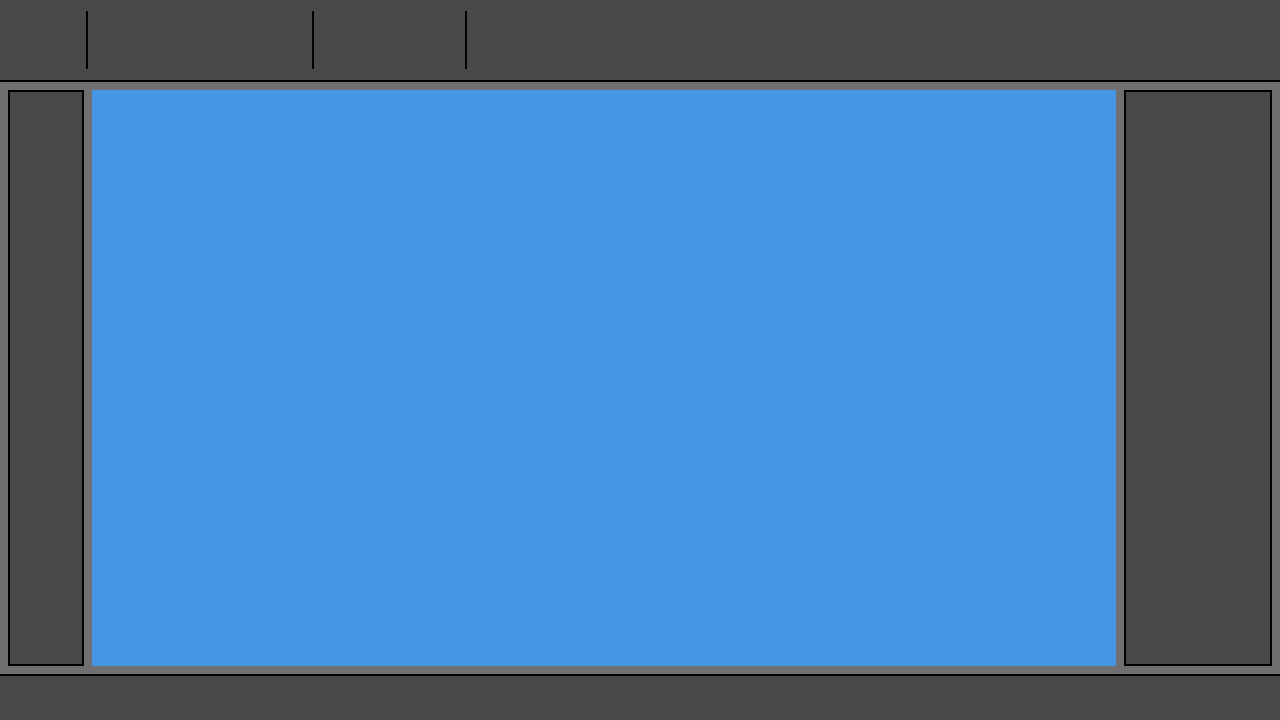
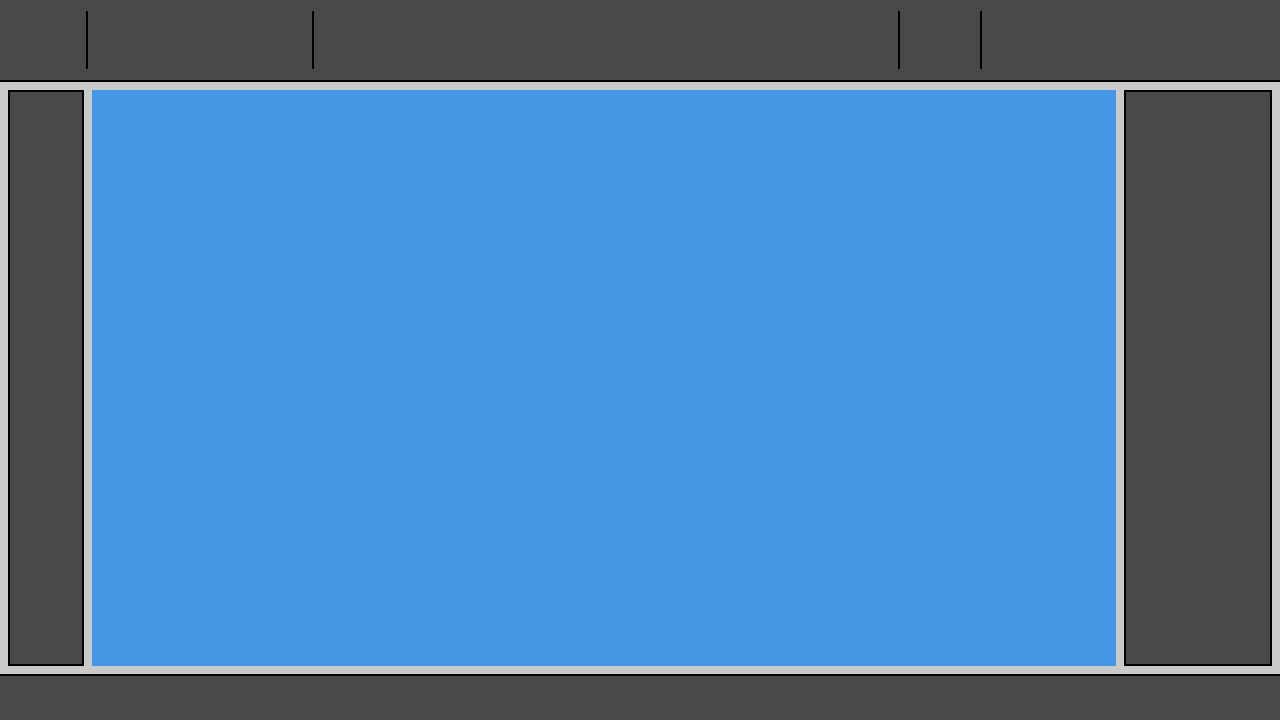
Improvement of Editor interface

Changed region(s): [[0.0, 0.0917, 1.0, 0.9472]]

diff --git a/src/Game/GameStates/MapEditorState.cpp b/src/Game/GameStates/MapEditorState.cpp
@@ -83,7 +83,7 @@ MapEditorState::MapEditorState(StateStack &stack, Context context)
 
     auto teamColor = std::make_shared<GUI::CheckBox>(context, 60, 60, Textures::EditorTeamColor);
     teamColor->setToggle(true);
-    teamColor->setPosition(490, 10);
+    teamColor->setPosition(992, 10);
     teamColor->activate();
     teamColor->setCallback([this] (bool red) {
         if(red)
@@ -96,40 +96,13 @@ MapEditorState::MapEditorState(StateStack &stack, Context context)
     teamColor->activate();
     mTeamSelection.pack(teamColor);
 
-    auto knight = std::make_shared<GUI::Button>(context, 60, 60, Textures::EditorSoldier);
-    knight->setToggle(true);
-    knight->setPosition(562, 10);
-    knight->setCallback([this] () {
-        mEntity = EntityInfo::ID::Knight ;
-        getContext().sounds.play(Sounds::Menu);
-    });
-    mEditBar.pack(knight);
-
-    auto Archer = std::make_shared<GUI::Button>(context, 60, 60, Textures::EditorArcher);
-    Archer->setToggle(true);
-    Archer->setPosition(634, 10);
-    Archer->setCallback([this] () {
-        mEntity = EntityInfo::ID::Archer ;
-        getContext().sounds.play(Sounds::Menu);
-    });
-    mEditBar.pack(Archer);
-
-    auto Tank = std::make_shared<GUI::Button>(context, 60, 60, Textures::EditorTank);
-    Tank->setToggle(true);
-    Tank->setPosition(706, 10);
-    Tank->setCallback([this] () {
-        mEntity = EntityInfo::ID::Tank ;
-        getContext().sounds.play(Sounds::Menu);
-    });
-    mEditBar.pack(Tank);
-
     // Tool bar buttons :
 
     auto smallBrushButton = std::make_shared<GUI::Button>(context, 60, 60, Textures::ToolSmallBrush);
     smallBrushButton->setPosition(16, 98);
     smallBrushButton->setToggle(true);
     smallBrushButton->activate();
-    smallBrushButton->setCallback([this](){
+    smallBrushButton->setCallback([this]() {
         tool = Editor::Tool::Standard;
         getContext().sounds.play(Sounds::Menu);
     });
@@ -138,43 +111,84 @@ MapEditorState::MapEditorState(StateStack &stack, Context context)
     auto mediumBrushButton = std::make_shared<GUI::Button>(context, 60, 60, Textures::ToolMediumBrush);
     mediumBrushButton->setPosition(16, 164);
     mediumBrushButton->setToggle(true);
-    mediumBrushButton->setCallback([this](){
+    mediumBrushButton->setCallback([this]() {
         tool = Editor::Tool::Square3;
         getContext().sounds.play(Sounds::Menu);
     });
     mToolBar.pack(mediumBrushButton);
 
+    auto bigBrushButton = std::make_shared<GUI::Button>(context, 60, 60, Textures::ToolBigBrush);
+    bigBrushButton->setPosition(16, 230);
+    bigBrushButton->setToggle(true);
+    bigBrushButton->setCallback([this](){
+        tool = Editor::Tool::Standard;
+        getContext().sounds.play(Sounds::Menu);
+    });
+    mToolBar.pack(bigBrushButton);
+
     auto eraserButton = std::make_shared<GUI::Button>(context, 60, 60, Textures::ToolEraser);
-    eraserButton->setPosition(16, 230);
+    eraserButton->setPosition(16, 296);
     eraserButton->setToggle(true);
-    eraserButton->setCallback([this](){
+    eraserButton->setCallback([this]() {
         tool = Editor::Tool::Eraser;
         getContext().sounds.play(Sounds::Menu);
     });
     mToolBar.pack(eraserButton);
 
     auto fillButton = std::make_shared<GUI::Button>(context, 60, 60, Textures::ToolFill);
-    fillButton->setPosition(16, 296);
+    fillButton->setPosition(16, 362);
     fillButton->setToggle(true);
-    fillButton->setCallback([this](){
+    fillButton->setCallback([this]() {
         tool = Editor::Tool::Fill;
         getContext().sounds.play(Sounds::Menu);
     });
     mToolBar.pack(fillButton);
 
-    auto EntityButton = std::make_shared<GUI::Button>(context, 60, 60, Textures::EditorEntityButton);
-    EntityButton->setToggle(true);
-    EntityButton->setPosition(16, 362);
-    EntityButton->setCallback([this] () {
+    auto knightButton = std::make_shared<GUI::Button>(context, 60, 60, Textures::EditorKnight);
+    knightButton->setToggle(true);
+    knightButton->setPosition(1064, 10);
+    knightButton->setCallback([this] () {
+        tool = Editor::Tool::PlaceSoldier;
+        mEntity = EntityInfo::ID::Knight;
+        getContext().sounds.play(Sounds::Menu);
+    });
+    mToolBar.pack(knightButton);
+
+    auto archerButton = std::make_shared<GUI::Button>(context, 60, 60, Textures::EditorArcher);
+    archerButton->setToggle(true);
+    archerButton->setPosition(1136, 10);
+    archerButton->setCallback([this] () {
+        tool = Editor::Tool::PlaceSoldier;
+        mEntity = EntityInfo::ID::Archer;
+        getContext().sounds.play(Sounds::Menu);
+    });
+    mToolBar.pack(archerButton);
+
+    auto tankButton = std::make_shared<GUI::Button>(context, 60, 60, Textures::EditorTank);
+    tankButton->setToggle(true);
+    tankButton->setPosition(1208, 10);
+    tankButton->setCallback([this] () {
+        tool = Editor::Tool::PlaceSoldier;
+        mEntity = EntityInfo::ID::Tank;
+        getContext().sounds.play(Sounds::Menu);
+    });
+    mToolBar.pack(tankButton);
+
+    /*
+    auto entityButton = std::make_shared<GUI::Button>(context, 60, 60, Textures::EditorEntityButton);
+    entityButton->setToggle(true);
+    entityButton->setPosition(16, 362);
+    entityButton->setCallback([this] () {
         tool = Editor::Tool::PlaceSoldier;
         mEntity = EntityInfo::Knight;
         getContext().sounds.play(Sounds::Menu);
     });
-    mToolBar.pack(EntityButton);
+    mToolBar.pack(entityButton);
+    */
 
     auto buildingButton = std::make_shared<GUI::Button>(context, 60, 60, Textures::EditorBuilding);
     buildingButton->setToggle(true);
-    buildingButton->setPosition(16, 428);
+    buildingButton->setPosition(910, 10);
     buildingButton->setCallback([this] () {
         tool = Editor::Tool::PlaceBuilding;
         mEntity = EntityInfo::None;
@@ -204,19 +218,15 @@ MapEditorState::MapEditorState(StateStack &stack, Context context)
     mRotationBar.pack(rotateRightButton);
 
     // Texture selection buttons :
-
     for(int y(0); y < 36; y++){
         for (int x(0); x < 3;x++){
-
             addButtonTexture(sf::Vector2i(x,y), sf::Vector2i(1134+44*x,100+44*y));
         }
     }
 
     // Buildings selection :
-
     for(int y(36); y < 46; y++){
         for (int x(0); x < 3;x++){
-
             addButtonBuilding(sf::Vector2i(x,y), sf::Vector2i(1134+44*x,100+44*(y-36)));
         }
     }

diff --git a/src/Game/Application/Application.cpp b/src/Game/Application/Application.cpp
@@ -137,7 +137,7 @@ void Application::loadTextures() {
     mTextures.load(Textures::EditorRedoButton, "data/Editor/redo.png");
     mTextures.load(Textures::EditorEntityButton, "data/Editor/entityButton.png");
     mTextures.load(Textures::EditorTeamColor, "data/Editor/teamColor.png");
-    mTextures.load(Textures::EditorSoldier, "data/Editor/soldier.png");
+    mTextures.load(Textures::EditorKnight, "data/Editor/soldier.png");
     mTextures.load(Textures::EditorArcher, "data/Editor/archer.png");
     mTextures.load(Textures::EditorTank, "data/Editor/tank.png");
     mTextures.load(Textures::EditorBuilding, "data/Editor/building.png");

diff --git a/src/Game/Resources/ResourceIdentifiers.hpp b/src/Game/Resources/ResourceIdentifiers.hpp
@@ -38,7 +38,7 @@ namespace Textures {
         ToolEraser,
         EditorEntityButton,
         EditorTeamColor,
-        EditorSoldier,
+        EditorKnight,
         EditorArcher,
         EditorTank,
         EditorBuilding,
